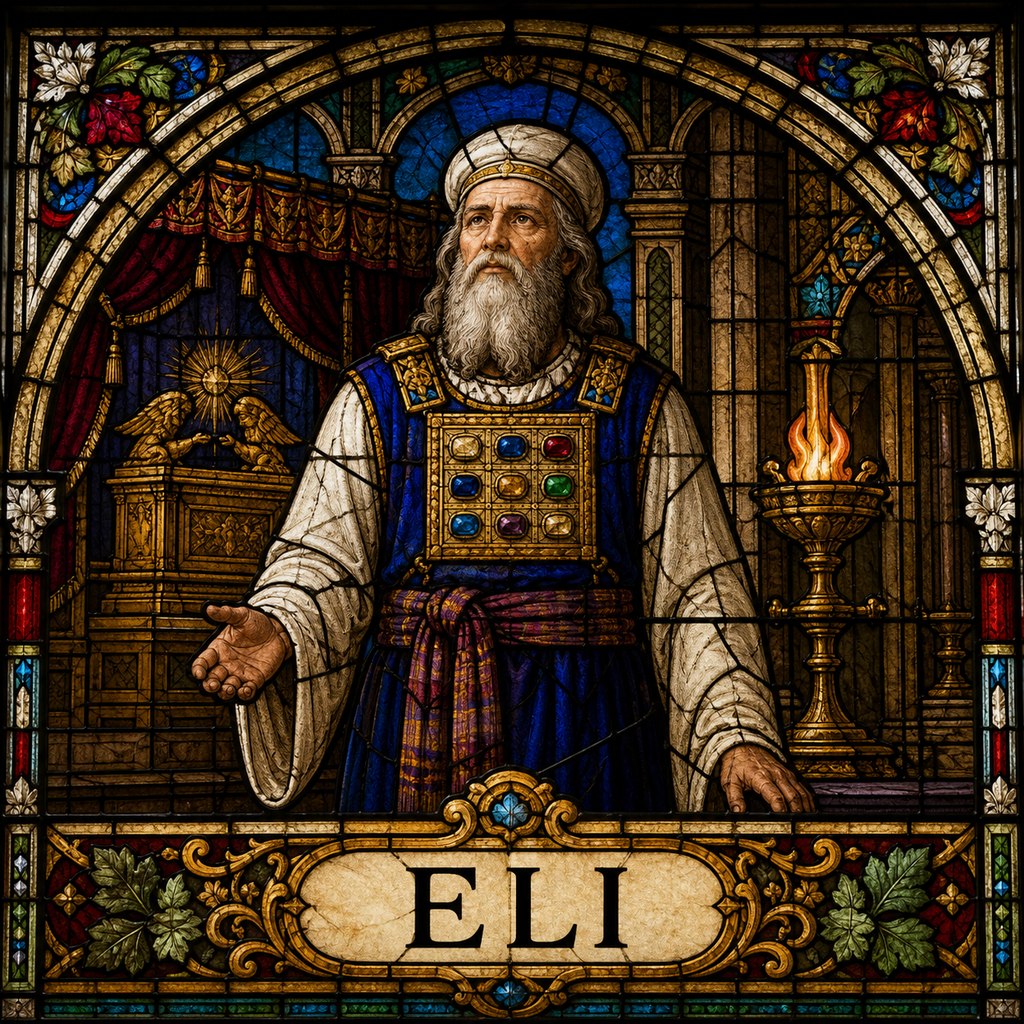
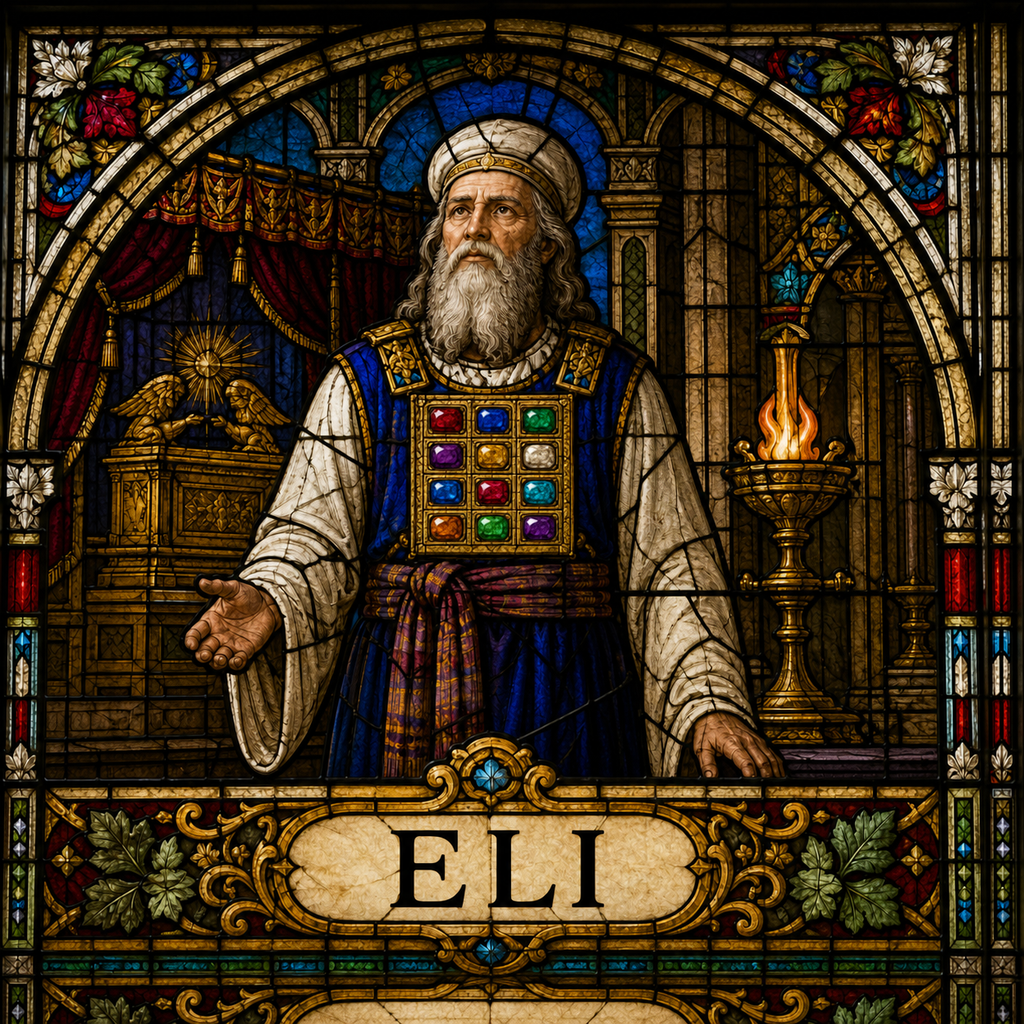
Correct priestly breastplates in stained-glass portraits

diff --git a/images/portraits2/STAINED_GLASS_PROMPT.md b/images/portraits2/STAINED_GLASS_PROMPT.md
@@ -9,6 +9,11 @@ Use this prompt verbatim for the `images/portraits2` series. Replace only the
 three bracketed values: `[BIBLE CHARACTER]`, `[DISPLAY NAME]`, and
 `[SYMBOLS / SCENE DETAILS]`.
 
+When a Tabernacle-period priest is depicted wearing the priestly breastplate,
+the scene details must require exactly twelve distinct gemstones in four
+horizontal rows of three, following Exodus 28:17–20. Treat any other gem count
+or arrangement as a material failure that requires correction.
+
 ```text
 Use case: historical-scene
 Asset type: 1024 × 1024 square website portrait
